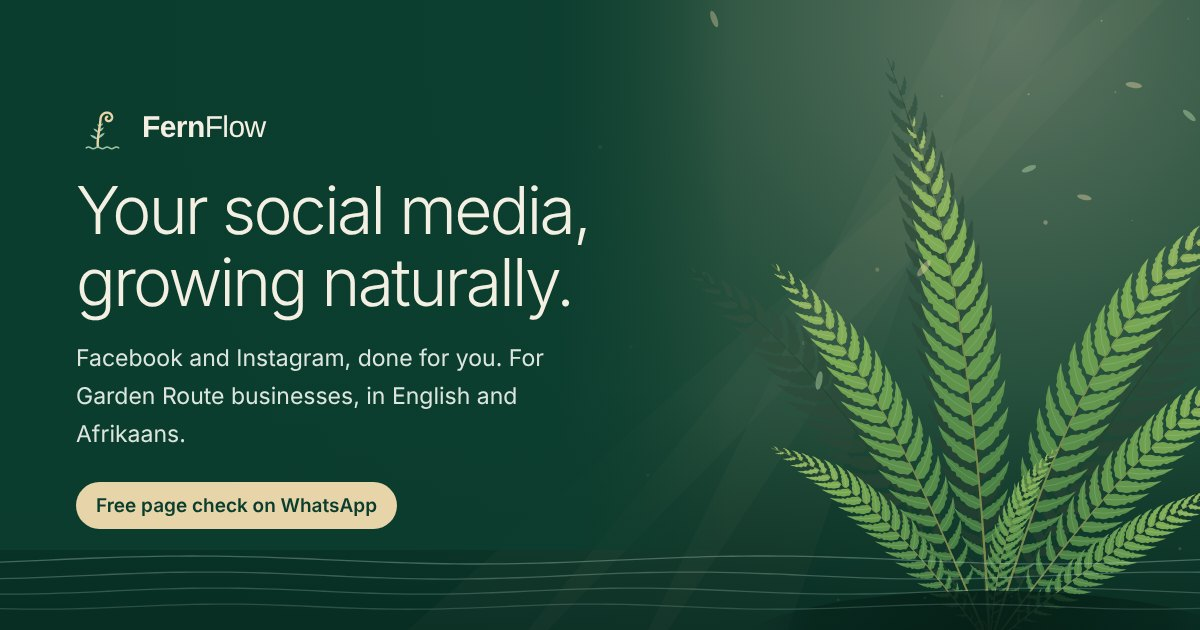
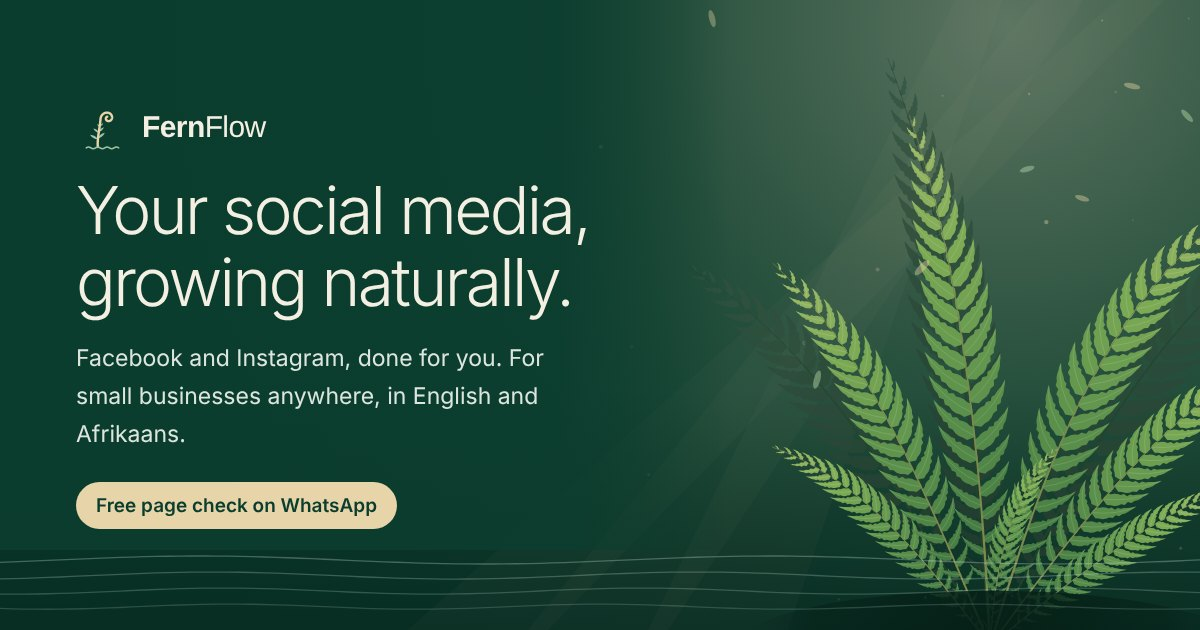
FernFlow is for businesses anywhere, run from the Garden Route
- Title, description, link preview text and picture now say
  "small businesses, anywhere".
- Hero, footer and About say it's run online from the Garden Route.
- Towns stat replaced with "1 month's notice to stop".
- WhatsApp shown as +27 60 703 2347; prices noted as ZAR.
- New FAQ for businesses outside South Africa.

Claude-Session: https://claude.ai/code/session_0162TMqTaQBvLj4sqZKgwq3W

diff --git a/public/index.html b/public/index.html
@@ -3,8 +3,8 @@
 <head>
 <meta charset="utf-8">
 <meta name="viewport" content="width=device-width, initial-scale=1">
-<title>FernFlow · Social media for Garden Route businesses</title>
-<meta name="description" content="FernFlow plans, posts and answers on your Facebook and Instagram every week. Calm, consistent social media for businesses in Wilderness, Sedgefield, Knysna and George, in English and Afrikaans.">
+<title>FernFlow · Social media for small businesses, anywhere</title>
+<meta name="description" content="FernFlow plans, posts and answers on your Facebook and Instagram every week. Calm, consistent social media for small businesses anywhere in the world, in English and Afrikaans. Run from the Garden Route, South Africa.">
 <meta name="theme-color" content="#0B3D2E">
 <link rel="icon" href="/favicon.ico" sizes="32x32">
 <link rel="icon" href="/favicon.svg" type="image/svg+xml">
@@ -13,16 +13,16 @@
 <meta property="og:type" content="website">
 <meta property="og:site_name" content="FernFlow">
 <meta property="og:title" content="FernFlow · Your social media, growing naturally">
-<meta property="og:description" content="Facebook and Instagram, done for you. Posts, replies and a monthly report for Garden Route businesses. Free page check on WhatsApp.">
+<meta property="og:description" content="Facebook and Instagram, done for you. Posts, replies and a monthly report for small businesses, wherever you are. Free page check on WhatsApp.">
 <meta property="og:url" content="/">
 <meta property="og:image" content="/og.jpg">
 <meta property="og:image:width" content="1200">
 <meta property="og:image:height" content="630">
-<meta property="og:image:alt" content="FernFlow: social media for Garden Route businesses">
+<meta property="og:image:alt" content="FernFlow: social media for small businesses, anywhere">
 <meta property="og:locale" content="en_ZA">
 <meta name="twitter:card" content="summary_large_image">
 <meta name="twitter:image" content="/og.jpg">
-<script type="application/ld+json">{"@context":"https://schema.org","@type":"ProfessionalService","name":"FernFlow","description":"Social media management for small businesses: Facebook and Instagram posts, replies and monthly reports, in English and Afrikaans.","telephone":"+27607032347","priceRange":"R1,500 to R3,500 a month","areaServed":[{"@type":"City","name":"Wilderness"},{"@type":"City","name":"Sedgefield"},{"@type":"City","name":"Knysna"},{"@type":"City","name":"George"}],"knowsLanguage":["en","af"]}</script>
+<script type="application/ld+json">{"@context":"https://schema.org","@type":"ProfessionalService","name":"FernFlow","description":"Social media management for small businesses: Facebook and Instagram posts, replies and monthly reports, in English and Afrikaans.","telephone":"+27607032347","priceRange":"R1,500 to R3,500 a month","areaServed":"Worldwide","address":{"@type":"PostalAddress","addressRegion":"Western Cape","addressCountry":"ZA"},"knowsLanguage":["en","af"]}</script>
 <link rel="preconnect" href="https://fonts.googleapis.com">
 <link href="https://fonts.googleapis.com/css2?family=Inter:wght@400;500;600&family=Manrope:wght@300;400;500;600&display=swap" rel="stylesheet">
 <style>
@@ -434,7 +434,7 @@ footer{background:var(--green2);color:#B4C7BA;font-size:14.5px}
 <div class="row"><a class="btn b-gold b-wa" id="h-wa" href="#contact"><svg aria-hidden="true"><use href="#wa"/></svg>Get a free page check</a><a class="btn b-ghost" href="#packages">See packages</a></div>
 <p class="offer"><i aria-hidden="true"></i><span><b>Founding offer:</b> half price on your first month for the first <b id="spots">3</b> businesses<span id="offer-end"></span>.</span></p>
 <a class="chip" href="#reviews"><span class="stars" aria-hidden="true"><svg><use href="#st"/></svg><svg><use href="#st"/></svg><svg><use href="#st"/></svg><svg><use href="#st"/></svg><svg><use href="#st"/></svg></span>5.0 from AuroSmart, our first client</a>
-<p class="where">For small businesses in Wilderness, Sedgefield, Knysna and George, in English and Afrikaans.</p>
+<p class="where">For small businesses anywhere in the world, in English and Afrikaans. Run from the Garden Route, South Africa.</p>
 </div>
 </div>
 <div class="wv" aria-hidden="true"><svg class="b" viewBox="0 0 2880 54" preserveAspectRatio="none"><path data-wv="2880,720,8,24,54" style="fill:var(--sage)" d="M0 24H2880V54H0Z"/></svg><svg viewBox="0 0 2880 54" preserveAspectRatio="none"><path data-wv="2880,480,6,31,54" style="fill:var(--sage)" d="M0 31H2880V54H0Z"/></svg></div>
@@ -446,7 +446,7 @@ footer{background:var(--green2);color:#B4C7BA;font-size:14.5px}
 <div><b data-count="16">16</b><span>posts a month on Grove, all designed and written for you</span></div>
 <div><b data-count="7">7</b><span>days a week of replies to comments and messages</span></div>
 <div><b data-count="2">2</b><span>languages, English and Afrikaans</span></div>
-<div><b data-count="4">4</b><span>towns: Wilderness, Sedgefield, Knysna and George</span></div>
+<div><b data-count="1">1</b><span>month's notice to stop. No long contracts</span></div>
 </div>
 <div class="head"><div><p class="eb">How it works</p><h2>You run your business.<br>We look after your page.</h2></div><p>No logins to remember, no posts to think up. One short check-in a month, and your page keeps growing in the background.</p></div>
 <div class="three">
@@ -574,7 +574,7 @@ footer{background:var(--green2);color:#B4C7BA;font-size:14.5px}
 <label for="p-biz"><span>Business name <span class="opt">optional</span></span><input id="p-biz" autocomplete="organization" placeholder="Forest Edge Guesthouse"></label>
 <div class="row"><a class="btn b-gold b-wa" id="p-send" href="#plan"><svg aria-hidden="true"><use href="#wa"/></svg>Send this plan</a><button class="btn b-ghost" type="button" id="p-copy">Copy</button></div>
 <p class="pst" id="p-status" aria-live="polite"></p>
-<ul class="fine"><li>Paid upfront on the 1st. Month to month, with one month's notice.</li><li>Ad money for boosted posts and Meta Verified are paid by you, straight to Meta. Our fee covers our work.</li></ul>
+<ul class="fine"><li>Prices are in South African rand (ZAR). Paid upfront on the 1st. Month to month, with one month's notice.</li><li>Ad money for boosted posts and Meta Verified are paid by you, straight to Meta. Our fee covers our work.</li></ul>
 </aside>
 </div>
 </div>
@@ -586,10 +586,11 @@ footer{background:var(--green2);color:#B4C7BA;font-size:14.5px}
 <div class="txt">
 <p class="eb">About</p>
 <h2>Hi, I'm Luzaan.</h2>
-<p>I run FernFlow from home in the Garden Route forest. I already manage the Facebook and Instagram pages for AuroSmart, a smart home company in George, so I know what it takes to keep a small business page busy, week after week.</p>
+<p>I run FernFlow from home in South Africa's Garden Route forest, and everything happens online, so your business can be anywhere. I already manage the Facebook and Instagram pages for AuroSmart, a smart home company in George, so I know what it takes to keep a small business page busy, week after week.</p>
 <p>I write in English and Afrikaans, I answer my WhatsApps, and I look after your page like it's my own. My aim is simple: you stay with FernFlow because it's working, not because you're tied in.</p>
 </div>
 <div class="faq">
+<details><summary>My business isn't in South Africa. Can you still help?</summary><p>Yes. Everything is done online, through WhatsApp and Meta Business Suite, so your business can be anywhere. Prices are in South African rand, and your posts go out at the right times for your time zone.</p></details>
 <details><summary>Do I give you my password?</summary><p>No. You add FernFlow to your page through Meta Business Suite, and you can remove access any time.</p></details>
 <details><summary>Where do the photos come from?</summary><p>From you. Real photos of your business work best; send them on WhatsApp whenever you take them.</p></details>
 <details><summary>Can I check posts before they go out?</summary><p>Yes. You get the month's posts in one message to approve or change, then you can forget about them.</p></details>
@@ -612,7 +613,7 @@ footer{background:var(--green2);color:#B4C7BA;font-size:14.5px}
 <li><b>Start when you're ready</b><span>Pick a package and we plan your first month together.</span></li>
 </ol>
 <div class="dl">
-<p>WhatsApp <a id="c-wa" href="#contact">060 703 2347</a></p>
+<p>WhatsApp <a id="c-wa" href="#contact">+27 60 703 2347</a></p>
 <p id="r-em" hidden>Email <a id="c-em" href="#contact"></a></p>
 <p id="r-ig" hidden>Instagram <a id="c-ig" href="#contact"></a></p>
 <p id="r-fb" hidden>Facebook <a id="c-fb" href="#contact">FernFlow</a></p>
@@ -637,7 +638,7 @@ footer{background:var(--green2);color:#B4C7BA;font-size:14.5px}
 
 <footer>
 <div class="wrap fg">
-<div><a class="logo" href="#top"><svg aria-hidden="true"><use href="#mk"/></svg><span><b>Fern</b>Flow</span></a><p>Calm, consistent social media for Garden Route businesses. Wilderness, Sedgefield, Knysna and George.</p></div>
+<div><a class="logo" href="#top"><svg aria-hidden="true"><use href="#mk"/></svg><span><b>Fern</b>Flow</span></a><p>Calm, consistent social media for small businesses, wherever they are. Run from the Garden Route, South Africa.</p></div>
 <div><h4>Explore</h4><a href="#how">How it works</a><a href="#results">Results</a><a href="#work">Our work</a><a href="#packages">Packages</a><a href="#plan">Your plan</a><a href="#about">About</a></div>
 <div><h4>Talk to us</h4><a href="#contact">Free page check</a><a href="#contact" id="f-wa2">WhatsApp</a><a href="#" id="f-fb" hidden>Facebook</a><a href="#" id="f-ig" hidden>Instagram</a><a href="/privacy">Privacy</a></div>
 </div>

diff --git a/public/privacy.html b/public/privacy.html
@@ -29,7 +29,7 @@ footer{border-top:1px solid var(--line);padding:24px max(5vw,16px);font-size:14p
 <p>Last updated 20 November 2026.</p>
 
 <h2>Who we are</h2>
-<p>FernFlow is a social media management service run by Luzaan in the Garden Route, South Africa. You can reach us on WhatsApp at <a href="https://wa.me/27607032347">060 703 2347</a>.</p>
+<p>FernFlow is a social media management service run by Luzaan in the Garden Route, South Africa. You can reach us on WhatsApp at <a href="https://wa.me/27607032347">+27 60 703 2347</a>.</p>
 
 <h2>What this website collects</h2>
 <p>Nothing is saved by this website. It has no sign-up, no cookies and no tracking or advertising tools. The form and the plan builder only prepare a WhatsApp message on your own device; nothing is sent to us unless you choose to send that message.</p>
